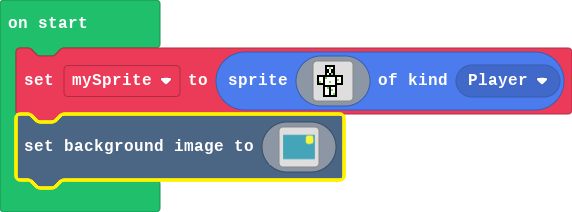
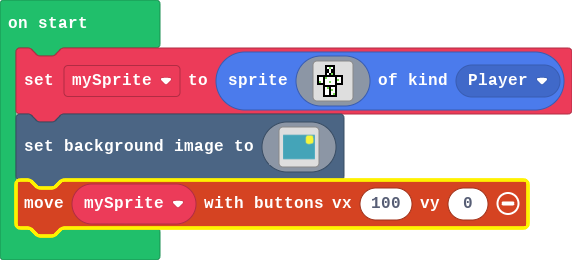
Update main.blocks, main.ts

diff --git a/main.ts b/main.ts
@@ -138,3 +138,4 @@ scene.setBackgroundImage(img`
     6666666666666666666666666666666666666666666666666666666666666666666666666666666666666666666666666666666666666666666666666666666666666666666666666666666666666666
     6666666666666666666666666666666666666666666666666666666666666666666666666666666666666666666666666666666666666666666666666666666666666666666666666666666666666666
     `)
+controller.moveSprite(mySprite, 100, 0)
